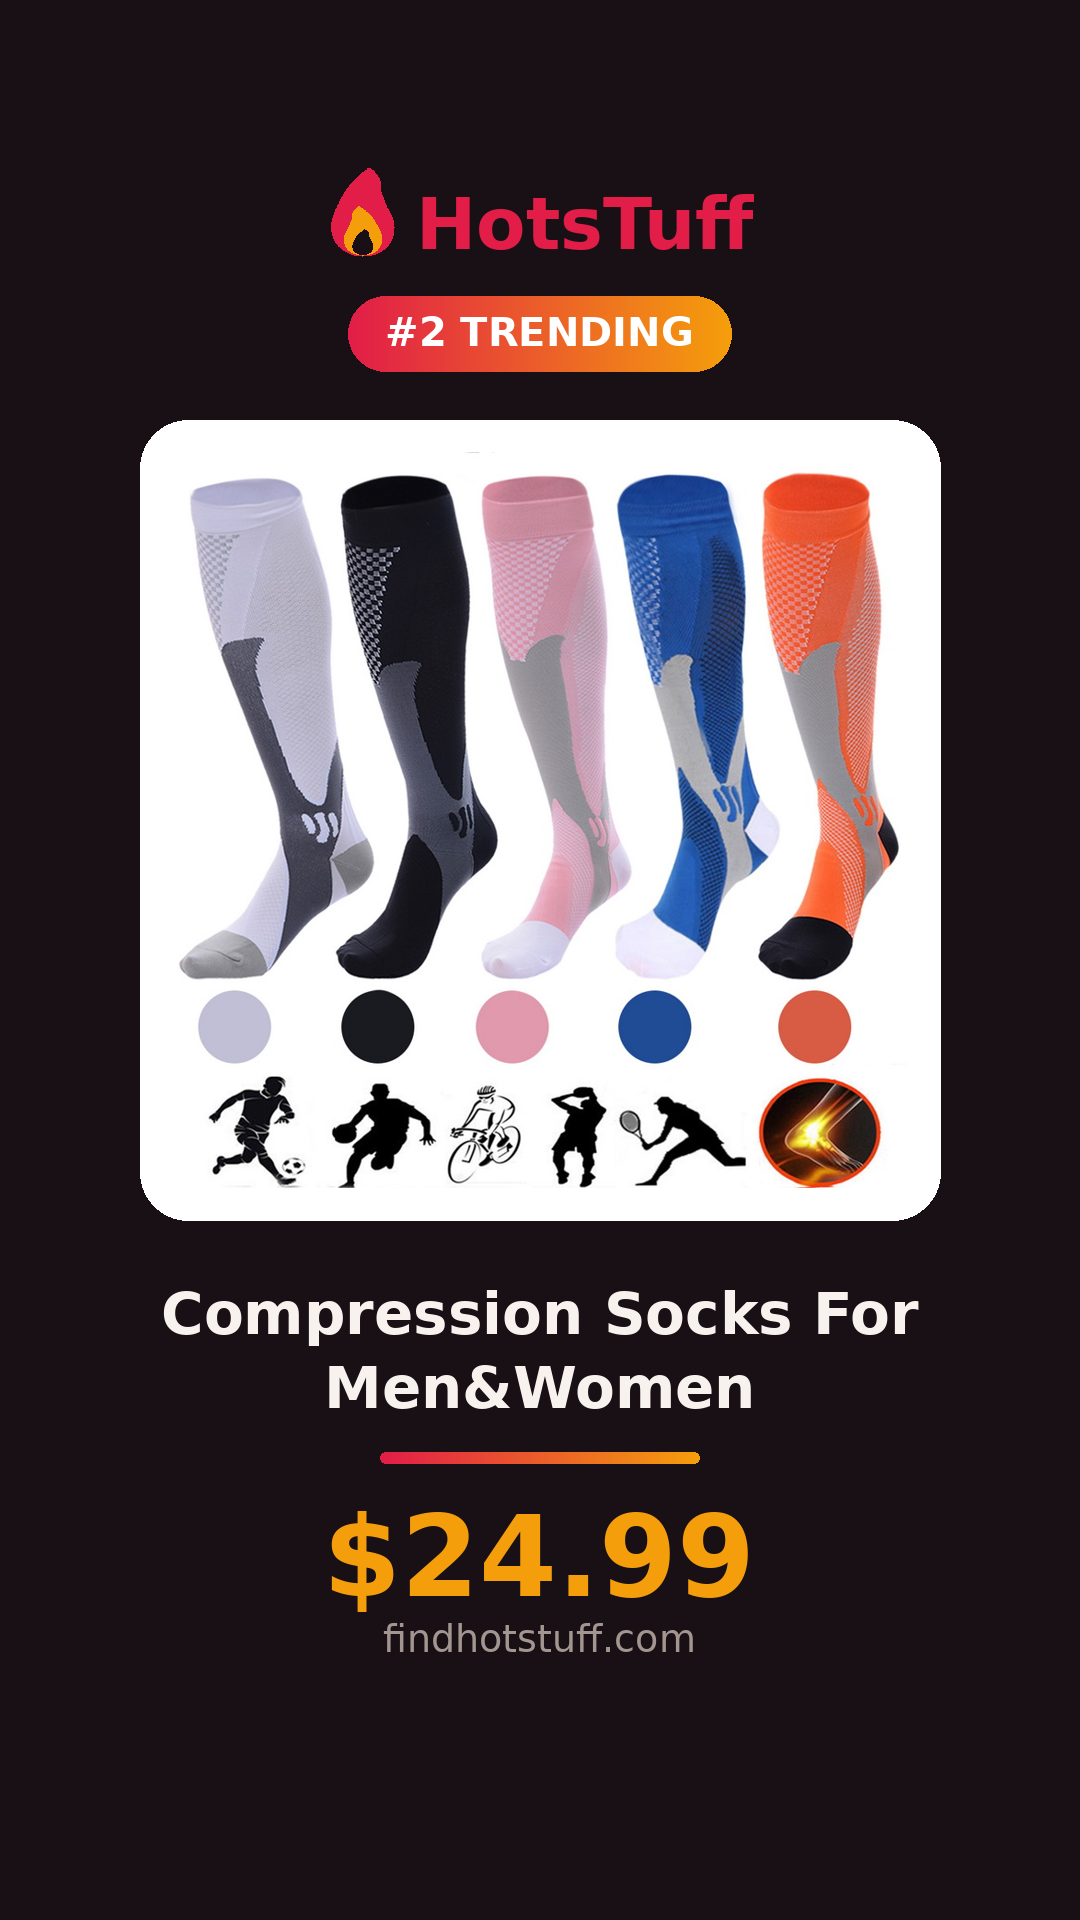
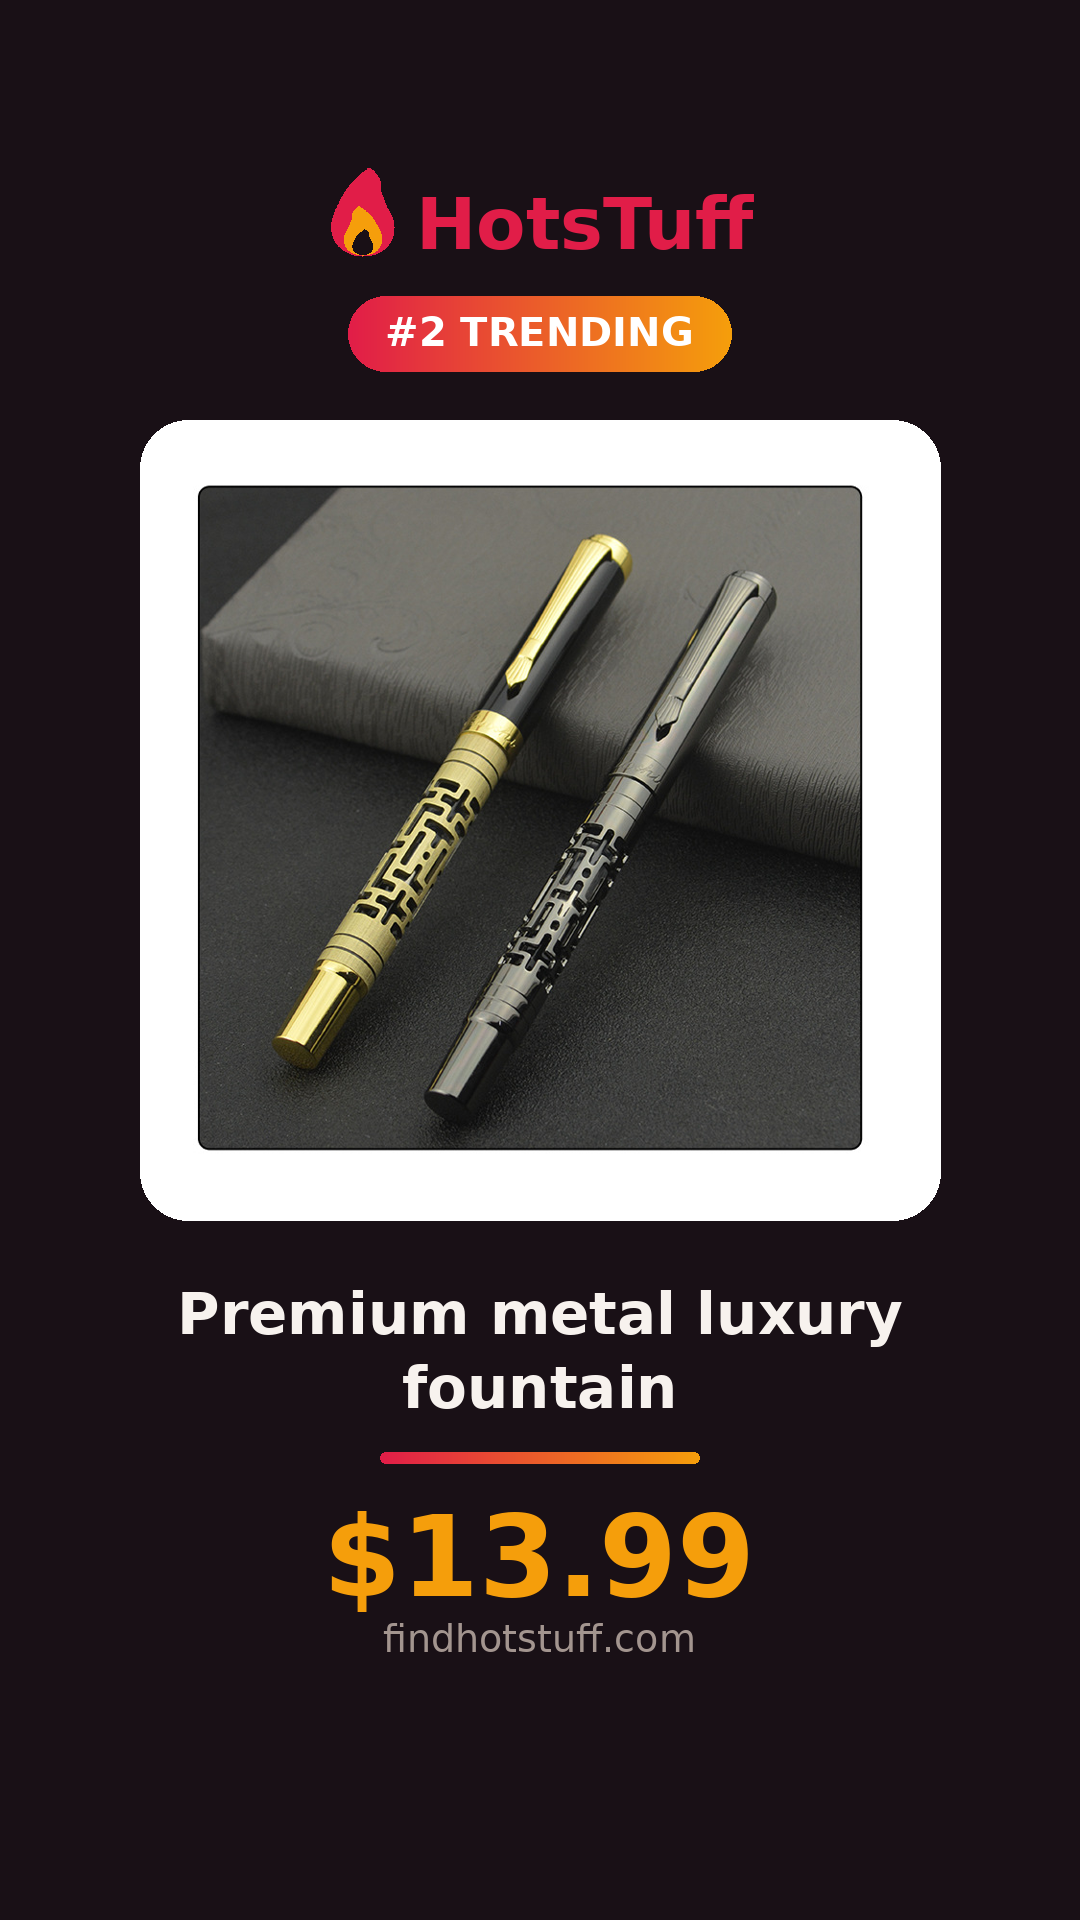
Daily TikTok packs (product + agent)

Changed region(s): [[0.1528, 0.2188, 0.825, 0.625], [0.1528, 0.6562, 0.8556, 0.75], [0.3667, 0.7812, 0.5194, 0.8438]]

diff --git a/marketing/tiktok/daily/captions.md b/marketing/tiktok/daily/captions.md
@@ -1,12 +1,12 @@
 # Daily TikTok posts (auto-generated)
 
-_Generated 2026-08-03 · post PRODUCT in the daytime, AGENT in the evening._
+_Generated 2026-08-04 · post PRODUCT in the daytime, AGENT in the evening._
 
 
 ## 🔥 Product post (product/) — caption
 
 ```
-today's heat check 🔥 spring + compression and more — all under one link #tiktokmademebuyit #trending #dailyfinds
+today's heat check 🔥 colorful + premium and more — all under one link #tiktokmademebuyit #trending #dailyfinds
 ```
 
 
